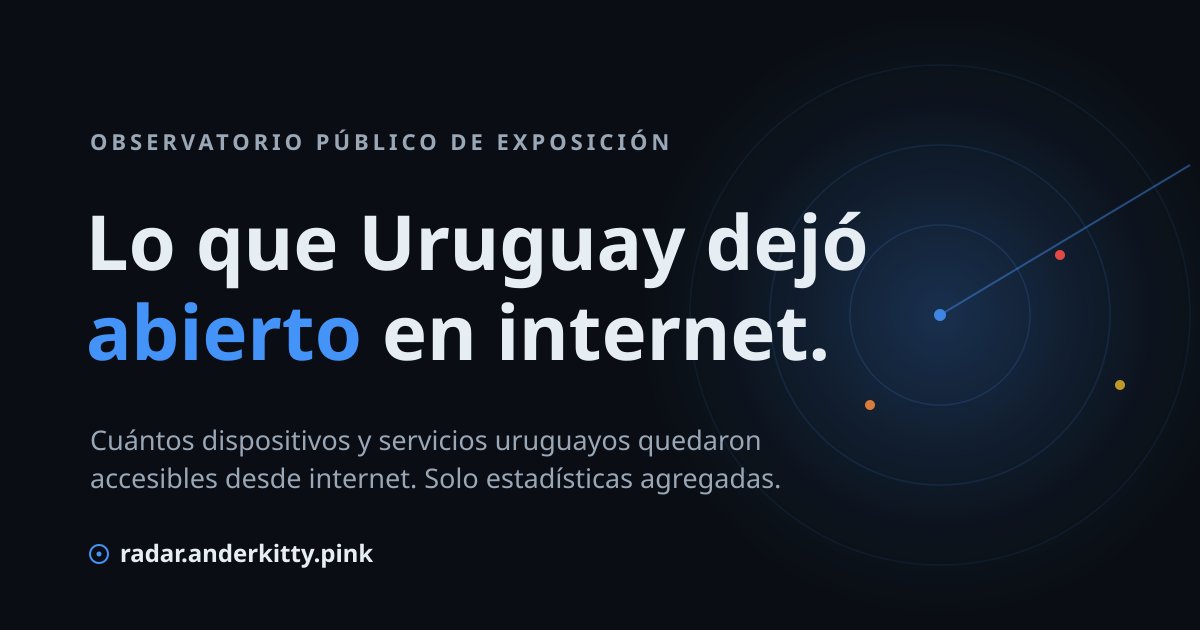
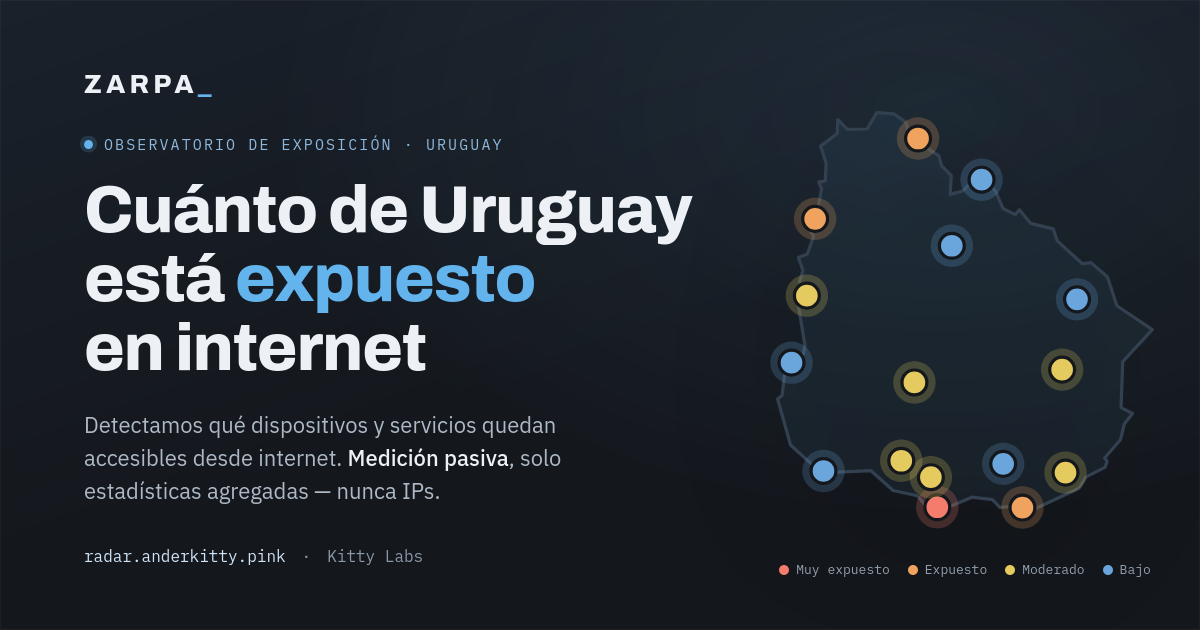
web: og.png nueva (estética Zarpa 8a) + meta OG/Twitter actualizados
- og.png rediseñada 1200×630: wordmark ZARPA_, titular "Cuánto de Uruguay está
  expuesto en internet", mapa de exposición con puntos por nivel y leyenda.
  Reemplaza la vieja que decía "Radar".
- Descripciones OG/Twitter más precisas ("observatorio OSINT pasivo… nunca IPs").
- og:image con ?v=2 para forzar refresco de la caché de scrapers (WhatsApp/Twitter/etc.).
- Añadidos og:site_name, og:image:type y og:image:alt.

Claude-Session: https://claude.ai/code/session_01APRtj6mVfDAfcSF7gAs6pF

diff --git a/index.html b/index.html
@@ -8,16 +8,19 @@
 <meta name="color-scheme" content="dark">
 <link rel="canonical" href="https://radar.anderkitty.pink/">
 <meta property="og:type" content="website">
+<meta property="og:site_name" content="Zarpa · Kitty Labs">
 <meta property="og:url" content="https://radar.anderkitty.pink/">
 <meta property="og:title" content="Zarpa · Cuánto de Uruguay está expuesto en internet">
-<meta property="og:description" content="Observatorio público de exposición: cuántos dispositivos y servicios uruguayos quedaron accesibles desde internet. Solo estadísticas agregadas.">
-<meta property="og:image" content="https://radar.anderkitty.pink/og.png">
+<meta property="og:description" content="Observatorio OSINT pasivo de Uruguay: detectamos qué dispositivos y servicios quedan accesibles desde internet. Solo estadísticas agregadas — nunca IPs ni datos de un equipo.">
+<meta property="og:image" content="https://radar.anderkitty.pink/og.png?v=2">
+<meta property="og:image:type" content="image/png">
 <meta property="og:image:width" content="1200">
 <meta property="og:image:height" content="630">
+<meta property="og:image:alt" content="Zarpa — Cuánto de Uruguay está expuesto en internet. Mapa de exposición por departamento.">
 <meta name="twitter:card" content="summary_large_image">
 <meta name="twitter:title" content="Zarpa · Cuánto de Uruguay está expuesto en internet">
-<meta name="twitter:description" content="Observatorio público de exposición en Uruguay. Solo estadísticas agregadas, nunca IPs ni datos de un equipo.">
-<meta name="twitter:image" content="https://radar.anderkitty.pink/og.png">
+<meta name="twitter:description" content="Observatorio OSINT pasivo de Uruguay. Medición pasiva, solo estadísticas agregadas — nunca IPs ni datos de un equipo.">
+<meta name="twitter:image" content="https://radar.anderkitty.pink/og.png?v=2">
 <link rel="preconnect" href="https://fonts.googleapis.com">
 <link rel="preconnect" href="https://fonts.gstatic.com" crossorigin>
 <link href="https://fonts.googleapis.com/css2?family=Archivo:wght@400;500;600;700;800&family=IBM+Plex+Sans:wght@400;500;600;700&family=IBM+Plex+Mono:wght@400;500;600&display=swap" rel="stylesheet">